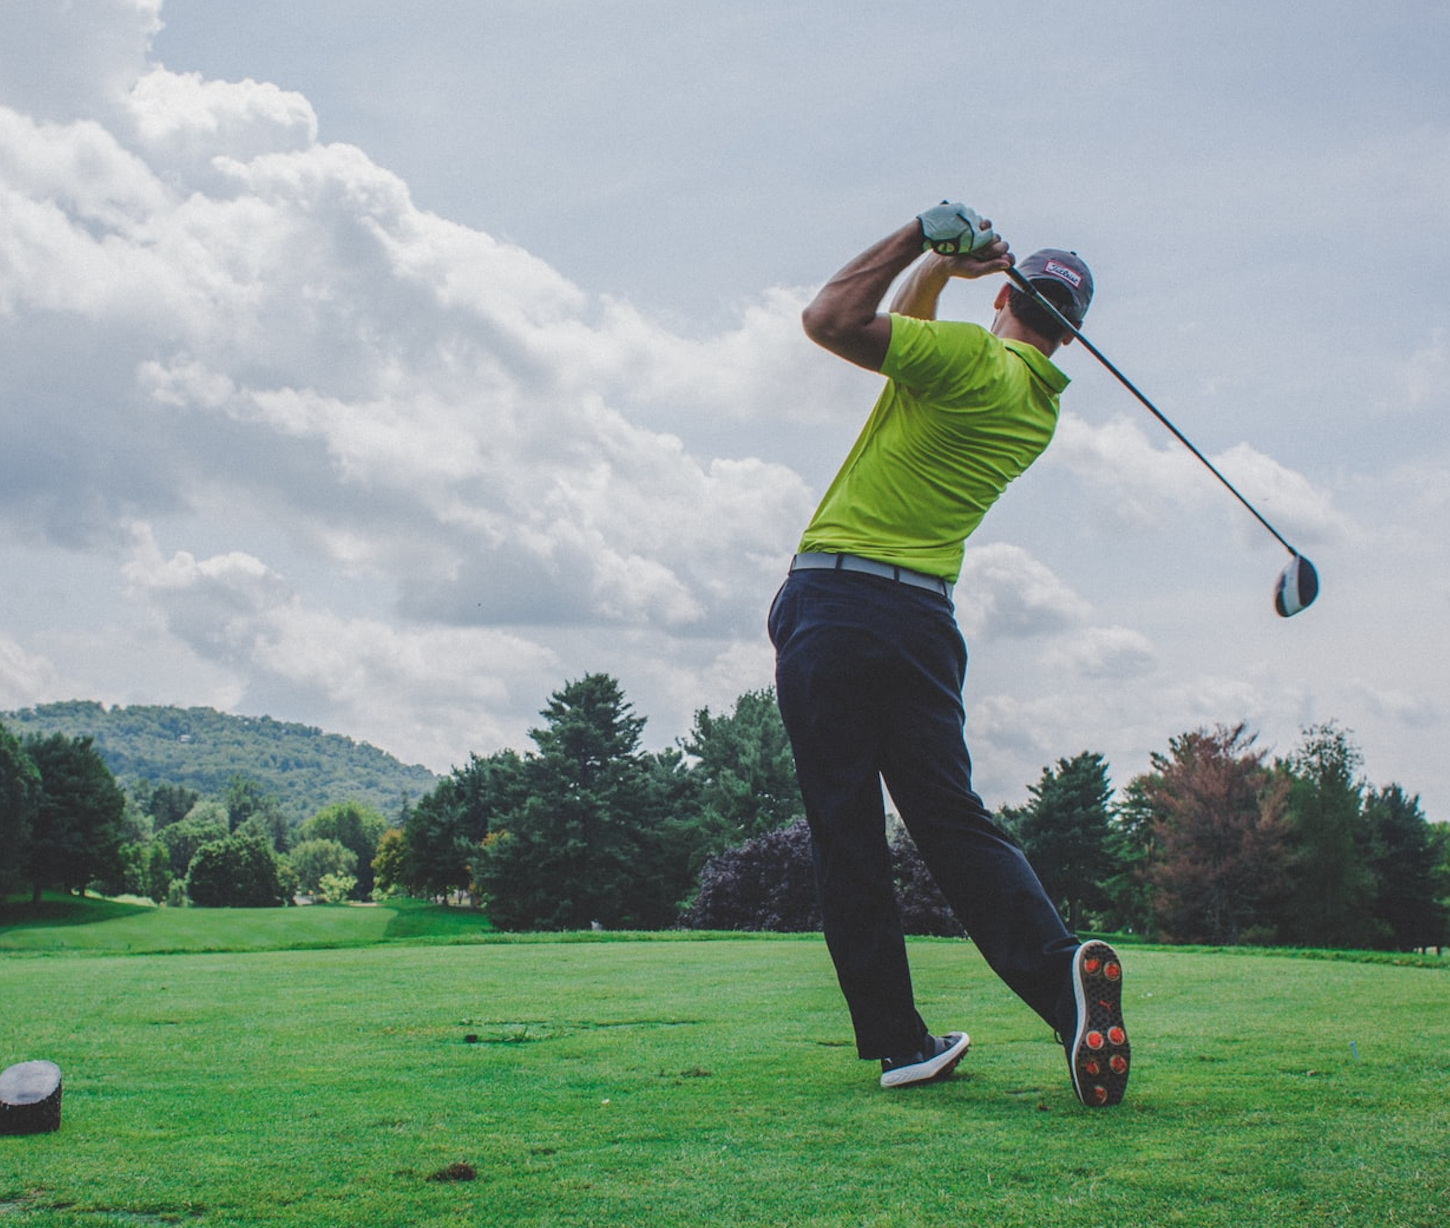
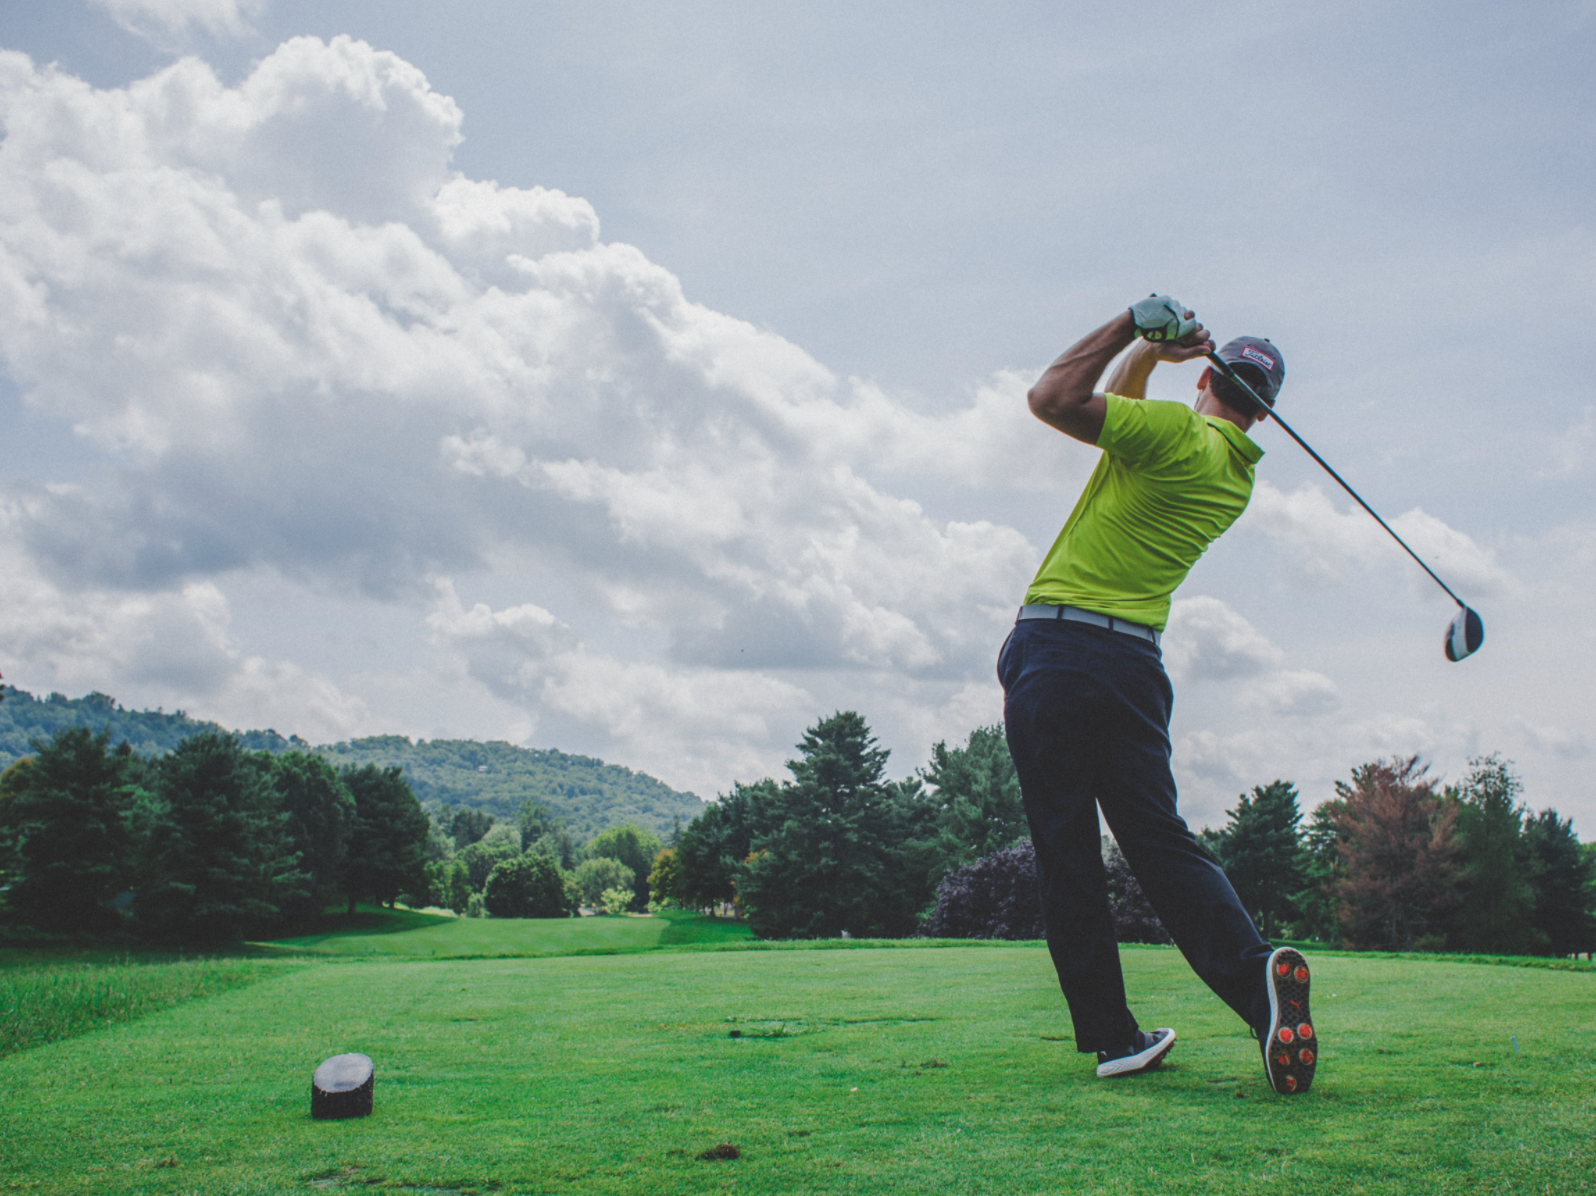
Small design amendments on base and index html

diff --git a/home/templates/home/index.html b/home/templates/home/index.html
@@ -10,7 +10,7 @@
 <!-- /End of Credit -->
 <!-- Credit: MDB Masks @ https://mdbootstrap.com/docs/standard/content-styles/masks/ -->
 <div class="bg-image">
-    <img class="d-none d-md-block w-100" src="{% static 'images/hero-image.jpg' %}" alt="Main image of home page">
+    <img class="d-none d-md-block w-100" src="{% static 'images/hero-image.png' %}" alt="Main image of home page">
     <img class="d-md-none w-100" src="{% static 'images/hero-image-mobile.png' %}" alt="Main image of home page">
     <div class="mask" style="background-color: rgba(0, 0, 0, 0.4)"></div>
     <a class="btn text-uppercase font-weight-bold shop--now--btn" href="{% url 'products' %}" alt="Shop Now button">Shop
@@ -62,29 +62,29 @@
     <ul class="nav nav-pills nav-justified mb-3 center reasons--for--purchase--tabs" id="ex1" role="tablist">
         <li class="nav-item" role="presentation">
             <a class="nav-link active" id="ex3-tab-1" data-mdb-toggle="pill" href="#ex3-pills-1" role="tab"
-                aria-controls="ex3-pills-1" aria-selected="true">Express Delivery</a>
+                aria-controls="ex3-pills-1" aria-selected="true">Express Delivery <i class="fas fa-truck d-none d-md-inline"></i></a>
         </li>
         <li class="nav-item" role="presentation">
             <a class="nav-link" id="ex3-tab-2" data-mdb-toggle="pill" href="#ex3-pills-2" role="tab"
-                aria-controls="ex3-pills-2" aria-selected="false">Competitive Prices</a>
+                aria-controls="ex3-pills-2" aria-selected="false">Competitive Prices <i class="fas fa-euro-sign d-none d-md-inline"></i></a>
         </li>
         <li class="nav-item" role="presentation">
             <a class="nav-link" id="ex3-tab-3" data-mdb-toggle="pill" href="#ex3-pills-3" role="tab"
-                aria-controls="ex3-pills-3" aria-selected="false">Secure Payment</a>
+                aria-controls="ex3-pills-3" aria-selected="false">Secure Payment <i class="fas fa-credit-card d-none d-md-inline"></i></a>
         </li>
     </ul>
 
     <div class="tab-content" id="ex2-content">
         <div class="tab-pane fade p-lg-4 show active" id="ex3-pills-1" role="tabpanel" aria-labelledby="ex3-tab-1">
             We dispatch your product within 2 working days since the order has been made so you won't wait for long till
-            you get it. <i class="fas fa-truck"></i>
+            you get it.
         </div>
         <div class="tab-pane p-lg-4 fade" id="ex3-pills-2" role="tabpanel" aria-labelledby="ex3-tab-2">
             Our prices are not only cheaper than retail prices but also cheaper than other online shops, so you save
-            money for next shopping. <i class="fas fa-wallet"></i>
+            money for next shopping.
         </div>
         <div class="tab-pane p-lg-4 fade" id="ex3-pills-3" role="tabpanel" aria-labelledby="ex3-tab-3">
-            Our credit card payment is very secure so you do not worry about providing the details online. <i class="fas fa-credit-card"></i>
+            Our credit card payment is very secure so you do not worry about providing the details online.
         </div>
     </div>
     <!-- /End of Credit -->

diff --git a/templates/base.html b/templates/base.html
@@ -283,12 +283,9 @@
                     <div class="col-md-4 col-lg-3 col-xl-3 mx-auto mb-md-0 mb-4">
                         <!-- Links -->
                         <h6 class="text-uppercase fw-bold mb-4">Contact</h6>
-                        <p><i class="fas fa-home me-3"></i> No.17 Fairgreen Business Park, Galway, H91 W30M, Ireland</p>
-                        <p>
-                            <i class="fas fa-envelope me-3"></i>
-                            eagle.golf.ms4@gmail.com
-                        </p>
-                        <p><i class="fas fa-phone me-3"></i> + 353 91 777777</p>
+                        <p><i class="fas fa-home"></i> No.17 Fairgreen Business Park, Galway, H91 W30M, Ireland</p>
+                        <p><i class="fas fa-envelope"></i> eagle.golf.ms4@gmail.com</p>
+                        <p><i class="fas fa-phone"></i> +353 91 777777</p>
                     </div>
                 </div>
             </div>

diff --git a/products/templates/products/products.html b/products/templates/products/products.html
@@ -10,7 +10,8 @@
 <!-- /End of Credit -->
 <!-- Credit: MDB Masks @ https://mdbootstrap.com/docs/standard/content-styles/masks/ -->
 <div class="bg-image">
-    <img class="w-100 hero--image" src="{% static 'images/hero-image.jpg' %}" alt="Main image of home page">
+    <img class="d-none d-md-block w-100" src="{% static 'images/hero-image-products.png' %}" alt="Main image of products page">
+    <img class="d-md-none w-100" src="{% static 'images/hero-image-products-mobile.png' %}" alt="Main image of products page">
     <div class="mask" style="background-color: rgba(0, 0, 0, 0.4)"></div>
 </div>
 <!-- /End of Credit -->
